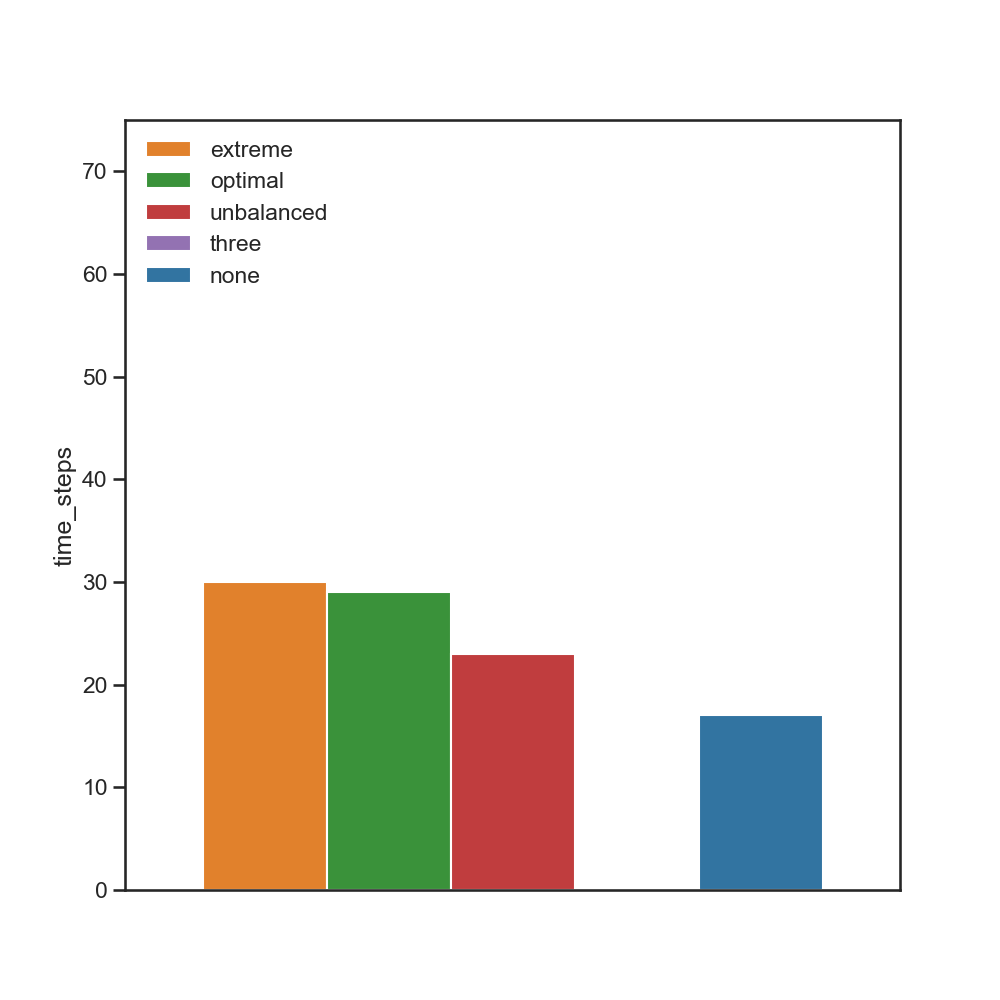
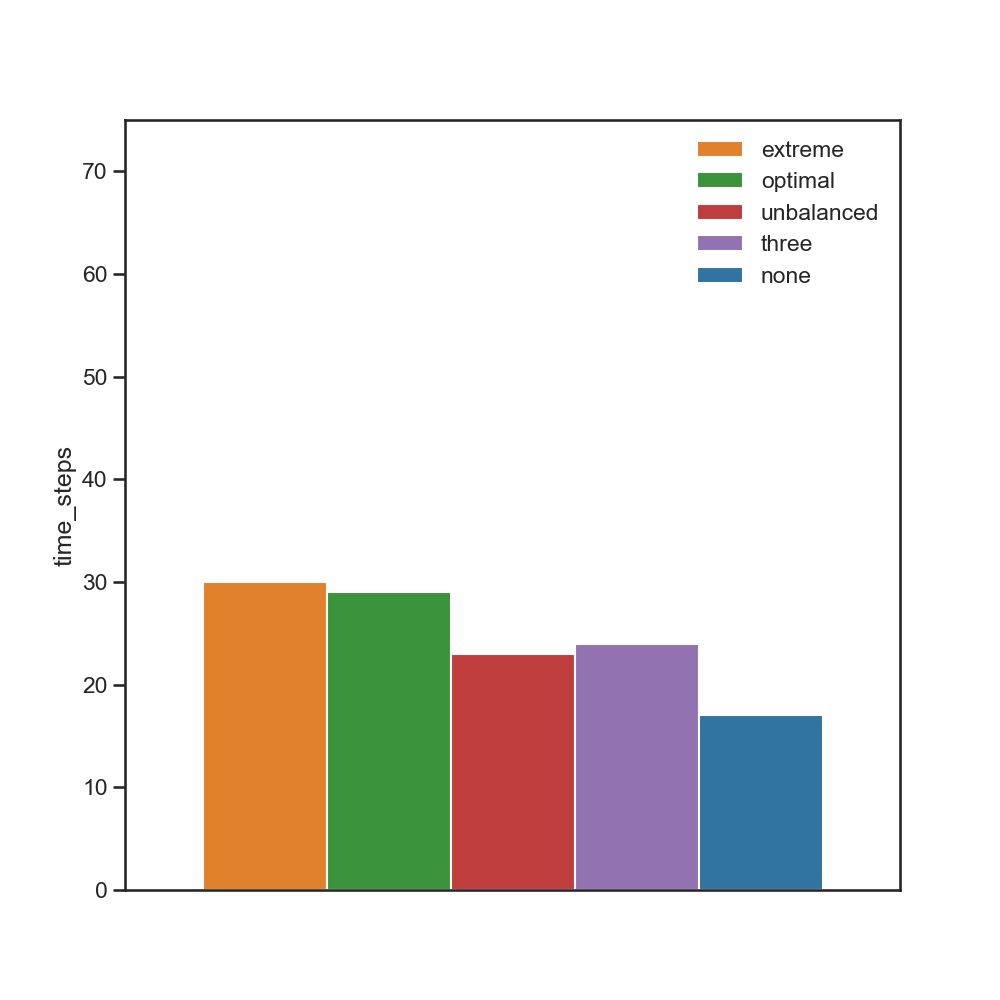
Finished Partial Tomato Three

Changed region(s): [[0.558, 0.62, 0.713, 0.899], [0.124, 0.124, 0.31, 0.279], [0.682, 0.124, 0.868, 0.279]]

diff --git a/gym_cooking/envs/overcooked_environment.py b/gym_cooking/envs/overcooked_environment.py
@@ -202,7 +202,7 @@ class OvercookedEnvironment(gym.Env):
             return [FryingWaiter(), ExceptionalChefMerger()]
         elif typeUsed == "three":
             if num_agents == 2:
-                return [ChoppingWaiter(), ExceptionalChefMerger()]
+                return [ChoppingMerger(), MergingWaiter()]
             elif num_agents == 3:
                 return [ChoppingWaiter(), ExceptionalChefMerger(), MergingWaiter()]
 

diff --git a/gym_cooking/main.py b/gym_cooking/main.py
@@ -94,7 +94,7 @@ def roleAssignmentAlgorithm(typeUsed, num_agents):
         return [FryingWaiter(), ExceptionalChefMerger()]
     elif typeUsed == "three":
         if num_agents == 2:
-            return [ChoppingWaiter(), ExceptionalChefMerger()]
+            return [ChoppingMerger(), MergingWaiter()]
         elif num_agents == 3:
             return [ChoppingWaiter(), ExceptionalChefMerger(), MergingWaiter()]
 
